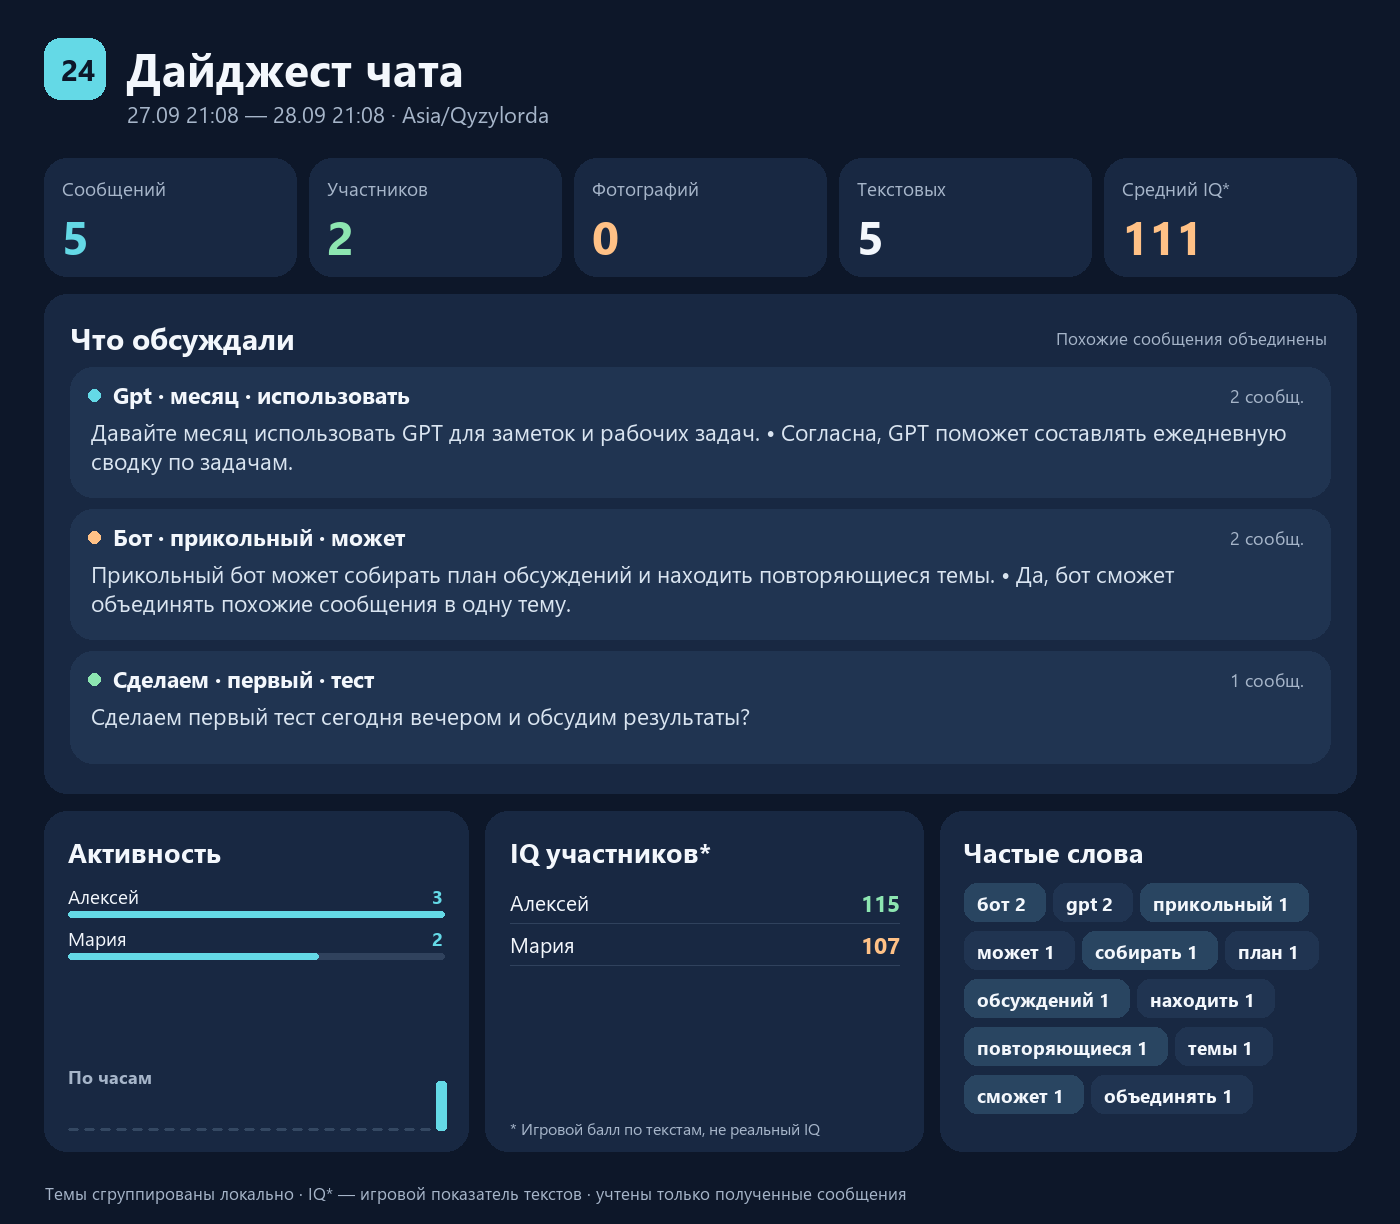
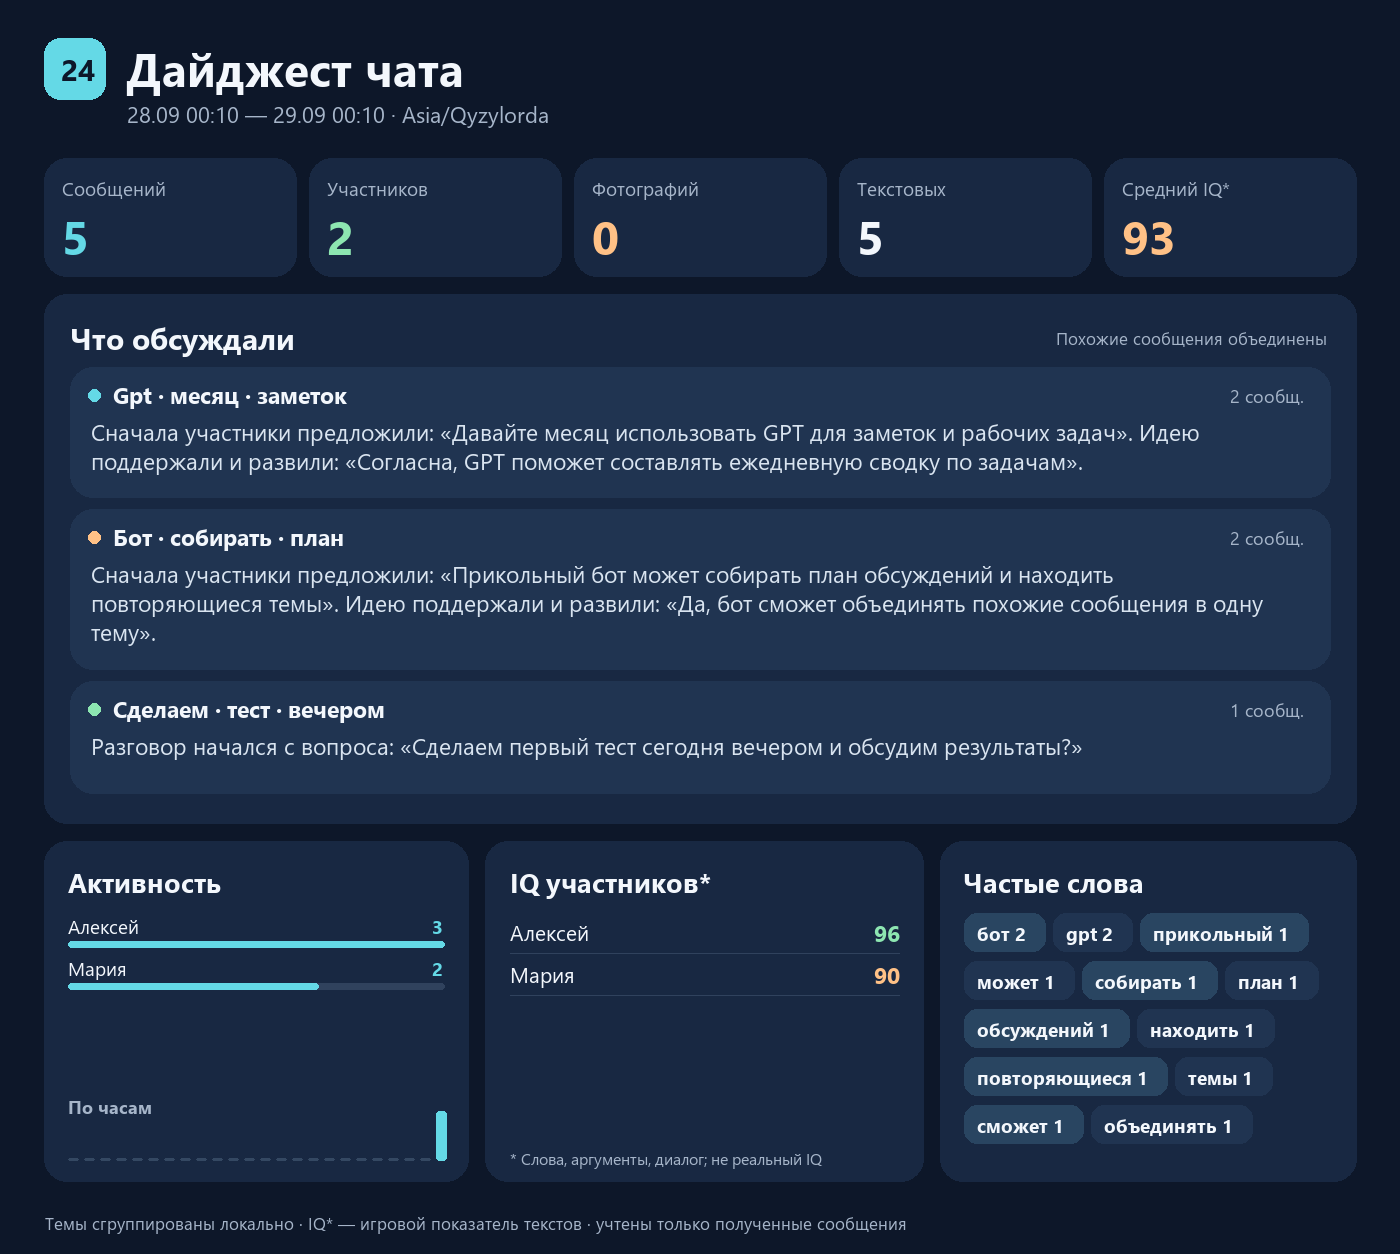
Add files via upload

diff --git a/analytics.py b/analytics.py
@@ -23,6 +23,7 @@ STOPWORDS = set("""
 просто потом сейчас сегодня вчера завтра можно надо нужно ещё уже всем всем
 будет будем будут такой такая такие этом потому поэтому спасибо привет
 пожалуйста ок окей нету щас типо типа либо вроде вообще там тут нас вам них
+который которая которое которые которых которому которым которую который
 the and for are was were you your this that with from have has not but can
 will just about what when where how who why into over then than they them
 иә жоқ мен сен біз сіз олар бұл сол үшін бар менің сенің оның осы болып
@@ -33,6 +34,15 @@ RUSSIAN_ENDINGS = tuple(sorted("""
 ыми ими ого его ому ему ами ями ах ях ам ям ом ем ой ей
 ия ие ые ый ий ая яя ое ее ы и а я у ю е о ов ев ь
 """.split(), key=len, reverse=True))
+REASON_MARKERS = (
+    "потому что", "так как", "поскольку", "поэтому", "следовательно",
+    "например", "к примеру", "допустим", "то есть", "если", "значит",
+    "во-первых", "во-вторых", "иначе", "из-за", "ведь",
+)
+PROPOSAL_RE = re.compile(r"\b(?:предлагаю|давайте|можно|нужно|стоит|мб|может|попробуем)\b")
+AGREEMENT_RE = re.compile(r"^\s*(?:да[,! ]|согласен\b|согласна\b|поддерживаю\b|точно\b)")
+TOPIC_FILLERS = {"прикольный", "может", "сможет", "сделает", "сделать", "давайте",
+                 "использовать", "хороший", "хорошую", "сегодня", "первый", "весь"}
 
 
 def tokens(text: str) -> list[str]:
@@ -53,6 +63,40 @@ def stem(word: str) -> str:
 def clip(text: str, limit: int) -> str:
     text = " ".join(text.split())
     return text if len(text) <= limit else text[:limit - 1].rstrip() + "…"
+
+
+def describe_topic(title: str, items: list[dict[str, Any]], other: bool = False) -> str:
+    """Build a structured, source-grounded narrative without an external model."""
+    chosen: list[dict[str, Any]] = [items[0]]
+    if len(items) > 2:
+        middle = next((item for item in items[1:-1]
+                       if PROPOSAL_RE.search((item.get("text") or "").casefold())), None)
+        if middle is None:
+            middle = max(items[1:-1], key=lambda item: len(tokens(item.get("text") or "")))
+        chosen.append(middle)
+    if len(items) > 1:
+        chosen.append(items[-1])
+
+    sentences = ["Помимо главных тем, участники затронули и другие вопросы."] if other else []
+    for index, item in enumerate(chosen):
+        body = clip(item.get("text") or "", 150).strip().rstrip(".")
+        if not body:
+            continue
+        if index == 0:
+            opening = "Разговор начался с вопроса" if "?" in body else (
+                "Сначала участники предложили" if PROPOSAL_RE.search(body.casefold()) else
+                "Разговор начался с мысли")
+        elif "?" in (item.get("text") or ""):
+            opening = "Позже участники задали вопрос"
+        elif AGREEMENT_RE.search(body.casefold()):
+            opening = "Идею поддержали и развили"
+        elif PROPOSAL_RE.search(body.casefold()):
+            opening = "Затем появилось предложение"
+        else:
+            opening = "Позже тему уточнили"
+        suffix = "" if body.endswith(("?", "!", "…")) else "."
+        sentences.append(f"{opening}: «{body}»{suffix}")
+    return clip(" ".join(sentences), 620)
 
 
 def build_topics(text_messages: list[dict[str, Any]]) -> list[dict[str, Any]]:
@@ -96,7 +140,8 @@ def build_topics(text_messages: list[dict[str, Any]]) -> list[dict[str, Any]]:
         if cluster.get("other"):
             title = "Другие темы"
         else:
-            counts = Counter(word for item in items for word in tokens(item.get("text") or ""))
+            counts = Counter(word for item in items for word in tokens(item.get("text") or "")
+                             if word not in TOPIC_FILLERS)
             title = " · ".join(word.capitalize() if i == 0 else word
                                for i, (word, _) in enumerate(counts.most_common(3))) or "Обсуждение"
         chosen = []
@@ -108,8 +153,8 @@ def build_topics(text_messages: list[dict[str, Any]]) -> list[dict[str, Any]]:
                 seen_texts.add(body)
         if len(chosen) > 4:
             chosen = [chosen[0], *chosen[-3:]]
-        combined = " • ".join(clip(item.get("text") or "", 240) for item in chosen)
-        topics.append({"title": title, "summary": clip(combined, 640), "count": len(items)})
+        topics.append({"title": title, "summary": describe_topic(title, chosen, cluster.get("other", False)),
+                       "count": len(items)})
     return topics
 
 
@@ -118,17 +163,41 @@ def estimate_participant_scores(text_messages: list[dict[str, Any]]) -> list[dic
     by_person: dict[str, list[dict[str, Any]]] = defaultdict(list)
     for msg in text_messages:
         by_person[str(msg.get("sender_id") or "unknown")].append(msg)
+    engaged: Counter[str] = Counter()
+    for index, msg in enumerate(text_messages):
+        sender_id = str(msg.get("sender_id") or "unknown")
+        current_terms = {stem(word) for word in tokens(msg.get("text") or "")}
+        for previous in reversed(text_messages[max(0, index - 4):index]):
+            if msg["date"] - previous["date"] > 3600:
+                break
+            if sender_id == str(previous.get("sender_id") or "unknown"):
+                continue
+            previous_terms = {stem(word) for word in tokens(previous.get("text") or "")}
+            if current_terms & previous_terms:
+                engaged[sender_id] += 1
+                break
     result = []
     for sender_id, items in by_person.items():
         all_tokens = [word for msg in items for word in tokens(msg.get("text") or "")]
         if len(items) < 2 or len(all_tokens) < 8:
             continue
-        vocabulary = min(1.0, len({stem(word) for word in all_tokens}) / (0.65 * len(all_tokens)))
+        vocabulary = min(1.0, len({stem(word) for word in all_tokens}) / max(12, 0.68 * len(all_tokens)))
         elaboration = min(1.0, mean(min(len(tokens(msg.get("text") or "")), 30) for msg in items) / 14)
-        questions = min(1.0, sum("?" in (msg.get("text") or "") for msg in items) / (0.25 * len(items)))
-        score = round(72 + 58 * (0.35 * vocabulary + 0.55 * elaboration + 0.10 * questions))
+        reasoning_count = sum(any(marker in (msg.get("text") or "").casefold()
+                                  for marker in REASON_MARKERS) for msg in items)
+        reasoning = min(1.0, reasoning_count / max(1, 0.35 * len(items)))
+        dialogue = min(1.0, engaged[sender_id] / max(1, 0.40 * len(items)))
+        questions = min(1.0, sum("?" in (msg.get("text") or "") for msg in items) / max(1, 0.30 * len(items)))
+        bodies = [" ".join((msg.get("text") or "").casefold().split()) for msg in items]
+        duplicates = 1 - len(set(bodies)) / len(bodies)
+        very_short = sum(len(tokens(msg.get("text") or "")) < 3 for msg in items) / len(items)
+        penalty = 0.22 * duplicates + 0.10 * very_short
+        quality = (0.22 * vocabulary + 0.28 * elaboration + 0.25 * reasoning
+                   + 0.18 * dialogue + 0.07 * questions - penalty)
+        score = max(70, min(130, round(70 + 60 * quality)))
         result.append({"sender_id": sender_id, "name": items[-1].get("sender_name") or "Участник",
-                       "score": score, "messages": len(items)})
+                       "score": score, "messages": len(items), "reasoning": reasoning_count,
+                       "dialogue": engaged[sender_id]})
     return sorted(result, key=lambda item: (-item["score"], -item["messages"], item["name"]))
 
 

diff --git a/tests/test_dashboard.py b/tests/test_dashboard.py
@@ -117,8 +117,28 @@ class DashboardTests(unittest.TestCase):
         self.assertEqual(len(stats["topics"]), 2)
         self.assertTrue(any("Бот сделает" in item["summary"] and "Бот добавляет" in item["summary"]
                             for item in stats["topics"]))
+        self.assertTrue(all("«" in item["summary"] and "»" in item["summary"]
+                            for item in stats["topics"]))
         self.assertEqual(len(stats["participant_scores"]), 2)
         self.assertIsNotNone(stats["average_score"])
+
+    def test_reasoned_dialogue_scores_above_repetition(self):
+        now = 2_000_000_000
+        entries = [
+            ("2", "Борис", "Как лучше организовать встречу и почему текущий план неудобен?"),
+            ("1", "Аня", "Потому что место далеко от метро, предлагаю встретиться у парка рядом с кафе."),
+            ("3", "Спам", "Наш чудесный бот сделает чудесные вещи для чата."),
+            ("1", "Аня", "Например, там можно заранее выбрать время и записать пожелания каждого участника."),
+            ("3", "Спам", "Наш чудесный бот сделает чудесные вещи для чата."),
+            ("1", "Аня", "Если погода испортится, перенесём встречу в кафе и сообщим об этом всем заранее."),
+            ("3", "Спам", "Наш чудесный бот сделает чудесные вещи для чата."),
+        ]
+        messages = [{"date": now - (len(entries) - i) * 180, "message_id": i,
+                     "sender_id": person, "sender_name": name, "text": body,
+                     "photo_file_id": None}
+                    for i, (person, name, body) in enumerate(entries)]
+        scores = {item["name"]: item["score"] for item in analyze(messages, now)["participant_scores"]}
+        self.assertGreater(scores["Аня"], scores["Спам"])
 
     def test_daily_report_sent_once_per_local_day(self):
         class FakeAPI:

diff --git a/render.py b/render.py
@@ -109,7 +109,7 @@ def render_dashboard(stats: dict[str, Any], photo_bytes: list[bytes | None] | No
     topics = stats.get("topics", [])
     topic_layout = []
     for item in topics:
-        lines = wrap_lines(measure, item["summary"], font(23), 1200, 5)
+        lines = wrap_lines(measure, item["summary"], font(23), 1200, 6)
         topic_layout.append((item, lines, max(112, 70 + len(lines) * 30)))
     topic_height = 80 + sum(row[2] for row in topic_layout) + max(0, len(topic_layout) - 1) * 12 + 23
     if not topic_layout:
@@ -209,7 +209,9 @@ def render_dashboard(stats: dict[str, Any], photo_bytes: list[bytes | None] | No
                   font=font(23, True), fill=GREEN if i == 0 else ORANGE)
         if i < 4:
             draw.line((510, y + 35, 899, y + 35), fill="#30425D", width=1)
-    draw.text((510, lower_y + 306), "* Игровой балл по текстам, не реальный IQ", font=font(16), fill=MUTED)
+    explanation = "* Слова, аргументы, диалог; не реальный IQ"
+    draw.text((510, lower_y + 306), fit_text(draw, explanation, font(16), 391),
+              font=font(16), fill=MUTED)
 
     # Word cloud as compact chips.
     draw.text((963, lower_y + 22), "Частые слова", font=font(27, True), fill=WHITE)

diff --git a/bot.py b/bot.py
@@ -272,7 +272,7 @@ def handle_update(update: dict[str, Any], api: TelegramAPI, store: MessageStore,
 
 def main() -> int:
     logging.basicConfig(level=logging.INFO, format="%(asctime)s %(levelname)s %(message)s")
-    token = os.environ.get("BOT_TOKEN", "8976041838:AAFhJYoTE2uqDCOOSWmJpZJxF1VAVEouarU").strip()
+    token = os.environ.get("BOT_TOKEN", "").strip()
     if not token:
         print("Задайте BOT_TOKEN в переменной окружения. Инструкция: README.md", file=sys.stderr)
         return 2

diff --git a/README.md b/README.md
@@ -2,16 +2,16 @@
 
 Бот собирает новые сообщения группы. Он сам отправляет сводку каждый день в 09:00 по заданному часовому поясу, а команда `/dashboard` позволяет запросить её в любой момент:
 
-- что обсуждали: похожие сообщения объединяются в темы, в каждой показывается более подробный обзор;
+- что обсуждали: похожие сообщения объединяются в темы, в каждой показывается связное описание с опорой на реальные реплики;
 - сколько сообщений и фотографий было;
 - кто писал чаще всего и когда чат был активен;
 - условный «IQ» каждого активного участника и среднее по участникам;
 - какие слова встречались чаще всего;
 - до шести последних фотографий с подписями.
 
-Темы определяются локально по совпадающим словам и показывают объединённые фрагменты сообщений. Это обзор, а не смысловой пересказ от языковой модели. Пустой блок фотографий не выводится.
+Темы определяются локально по совпадающим словам. Описания строятся по литературным шаблонам из реплик участников, без ИИ, внешних сервисов и оплаты. Бот не придумывает выводы, которых не было в переписке. Пустой блок фотографий не выводится.
 
-«IQ» — **игровой показатель особенностей текста**, а не измерение интеллекта человека. Он учитывает разнообразие слов, среднюю длину сообщений и вопросы. Оценка появляется, когда участник написал минимум два сообщения и восемь значимых слов за сутки. Среднее считается только по таким участникам. Не используйте числа как реальные IQ или для серьёзных выводов о людях.
+«IQ» — **игровой показатель особенностей текста**, а не измерение интеллекта человека. Он учитывает разнообразие слов, развёрнутость сообщений, объяснения причин и примеры, тематическую связь ответов с репликами других участников и вопросы. Повторяющиеся и слишком короткие сообщения снижают балл. Оценка появляется, когда участник написал минимум два сообщения и восемь значимых слов за сутки. Среднее считается только по таким участникам. Не используйте числа как реальные IQ или для серьёзных выводов о людях.
 Служебные события Telegram (например, добавление участника) в статистику сообщений не входят.
 
 ## Запуск
